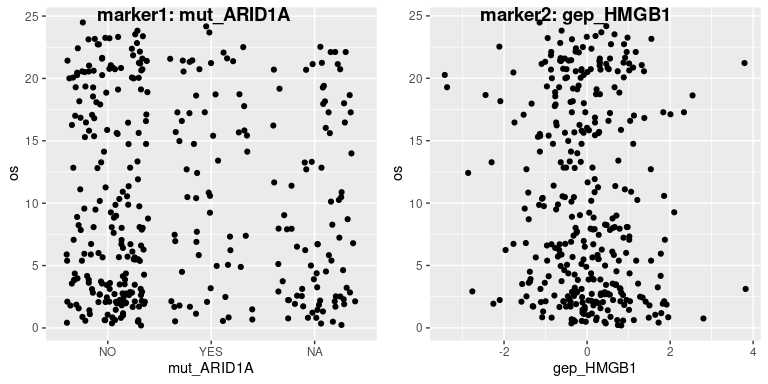
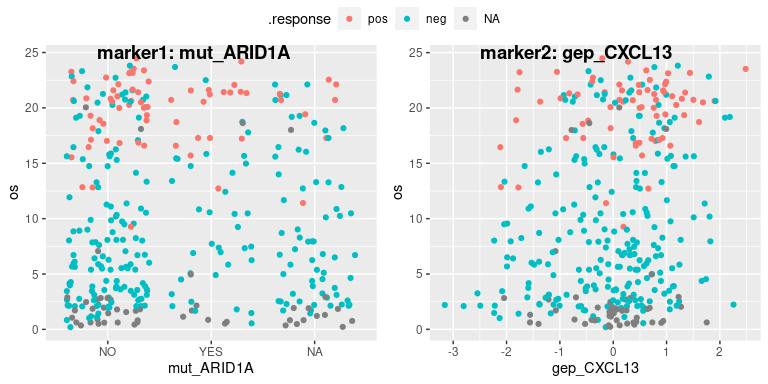
v0.1.0

diff --git a/README.md b/README.md
@@ -19,8 +19,8 @@ identification and prioritization of marker2 among all candidate markers
 in combination with known marker1 to predict response and survival
 through *dm\_searchM2\_cox* and *dm\_searchM2\_logit* function. Both
 modules are applicable for both categorical and continuous biomarkers.
-Continuous or numeric variables can be converted to dichotomous variable
-by median or other arbitrary cutoffs or remain unchanged.
+Both markers are applicable for both survival and response analyses and
+compatible with both continuous and categorical variables.
 ![dualmarker\_overview](man/figures/dualmarker_overview.png)
 
 ## Installation
@@ -324,13 +324,16 @@ showed the same result here.
 ``` r
 res.pair <- dm_pair(
    data = clin_bmk_IMvigor210, 
+   # response
+   response = "binaryResponse", 
+   response.pos = "CR/PR", response.neg = "SD/PD",
    # survival info
    time = "os", event = "censOS",
    # marker1
    marker1 = "mut_ARID1A",  
    m1.cat.pos = "YES", m1.cat.neg = "NO",
    # marker2
-   marker2 = "gep_HMGB1",
+   marker2 = "gep_CXCL13",
    m2.num.cut = "median"
    )
 ```
@@ -447,16 +450,16 @@ stats.4q$param
 #> # A tibble: 1 x 10
 #>   time  event marker1 marker2 cutpoint.m1 m1.cat.pos m1.cat.neg cutpoint.m2
 #>   <chr> <chr> <chr>   <chr>   <lgl>       <chr>      <chr>            <dbl>
-#> 1 os    cens… mut_AR… gep_HM… NA          YES        NO             -0.0492
+#> 1 os    cens… mut_AR… gep_CX… NA          YES        NO               0.124
 #> # … with 2 more variables: m2.cat.pos <chr>, m2.cat.neg <chr>
 stats.4q$stats
 #> # A tibble: 4 x 8
 #>   .quadrant .m1   .m2   records events median `0.95LCL` `0.95UCL`
 #>   <fct>     <fct> <fct>   <dbl>  <dbl>  <dbl>     <dbl>     <dbl>
-#> 1 R1        pos   high       28     11  NA         9.23     NA   
-#> 2 R2        neg   high      114     82   6.01      3.98      8.08
-#> 3 R3        neg   low        88     53  14.1       9.76     17.1 
-#> 4 R4        pos   low        34     21  10.5       6.24     17.8
+#> 1 R1        pos   high       38     18  17.8       9.23     NA   
+#> 2 R2        neg   high       91     53  10.5       6.74     NA   
+#> 3 R3        neg   low       111     82   7.89      5.52      9.86
+#> 4 R4        pos   low        24     14  10.5       4.90     NA
 ```
 
   - stats-4: \[survival analysis\] Cox regression result  
@@ -494,7 +497,7 @@ dplyr::glimpse(res.pair$survival.stats$cox)
 #> $ time                   <chr> "os"
 #> $ even                   <chr> "censOS"
 #> $ m1                     <chr> "mut_ARID1A"
-#> $ m2                     <chr> "gep_HMGB1"
+#> $ m2                     <chr> "gep_CXCL13"
 #> $ confound.factor        <chr> ""
 #> $ cutpoint_m1            <lgl> NA
 #> $ cutpoint_m2            <lgl> NA
@@ -504,28 +507,28 @@ dplyr::glimpse(res.pair$survival.stats$cox)
 #> $ m2.cat.neg             <chr> ""
 #> $ m1_.m1_estimate        <dbl> -0.3931839
 #> $ m1_.m1_p.value         <dbl> 0.04572493
-#> $ m2_.m2_estimate        <dbl> 0.09758031
-#> $ m2_.m2_p.value         <dbl> 0.2044897
-#> $ md_.m1_estimate        <dbl> -0.4200662
-#> $ md_.m1_p.value         <dbl> 0.03383256
-#> $ md_.m2_estimate        <dbl> 0.1166283
-#> $ md_.m2_p.value         <dbl> 0.140206
-#> $ mdi_.m1_estimate       <dbl> -0.3768558
-#> $ mdi_.m1_p.value        <dbl> 0.06180889
-#> $ mdi_.m2_estimate       <dbl> 0.2834102
-#> $ mdi_.m2_p.value        <dbl> 0.002907483
-#> $ `mdi_.m1:.m2_estimate` <dbl> -0.6362649
-#> $ `mdi_.m1:.m2_p.value`  <dbl> 0.001073529
+#> $ m2_.m2_estimate        <dbl> -0.2869317
+#> $ m2_.m2_p.value         <dbl> 0.0001590714
+#> $ md_.m1_estimate        <dbl> -0.3134224
+#> $ md_.m1_p.value         <dbl> 0.1149989
+#> $ md_.m2_estimate        <dbl> -0.2676217
+#> $ md_.m2_p.value         <dbl> 0.0004277342
+#> $ mdi_.m1_estimate       <dbl> -0.3045374
+#> $ mdi_.m1_p.value        <dbl> 0.1233496
+#> $ mdi_.m2_estimate       <dbl> -0.2463571
+#> $ mdi_.m2_p.value        <dbl> 0.002164497
+#> $ `mdi_.m1:.m2_estimate` <dbl> -0.1938994
+#> $ `mdi_.m1:.m2_p.value`  <dbl> 0.4121259
 #> $ m1_AIC                 <dbl> 1695.692
-#> $ m2_AIC                 <dbl> 1698.41
-#> $ md_AIC                 <dbl> 1695.525
-#> $ mdi_AIC                <dbl> 1686.244
+#> $ m2_AIC                 <dbl> 1686.086
+#> $ md_AIC                 <dbl> 1685.451
+#> $ mdi_AIC                <dbl> 1686.794
 #> $ pval.m1.vs.null        <dbl> 0.03779216
-#> $ pval.m2.vs.null        <dbl> 0.2064915
-#> $ pval.m1.vs.md          <dbl> 0.1410022
-#> $ pval.m2.vs.md          <dbl> 0.02708344
-#> $ pval.m1.vs.mdi         <dbl> 0.001202181
-#> $ pval.m2.vs.mdi         <dbl> 0.0003087848
+#> $ pval.m2.vs.null        <dbl> 0.0001907733
+#> $ pval.m1.vs.md          <dbl> 0.0004674887
+#> $ pval.m2.vs.md          <dbl> 0.1044939
+#> $ pval.m1.vs.mdi         <dbl> 0.001582535
+#> $ pval.m2.vs.mdi         <dbl> 0.1928236
 ```
 
 ## Example3: search GEP candidates marker2 to combine with mut\_ARID1A for survival analysis
